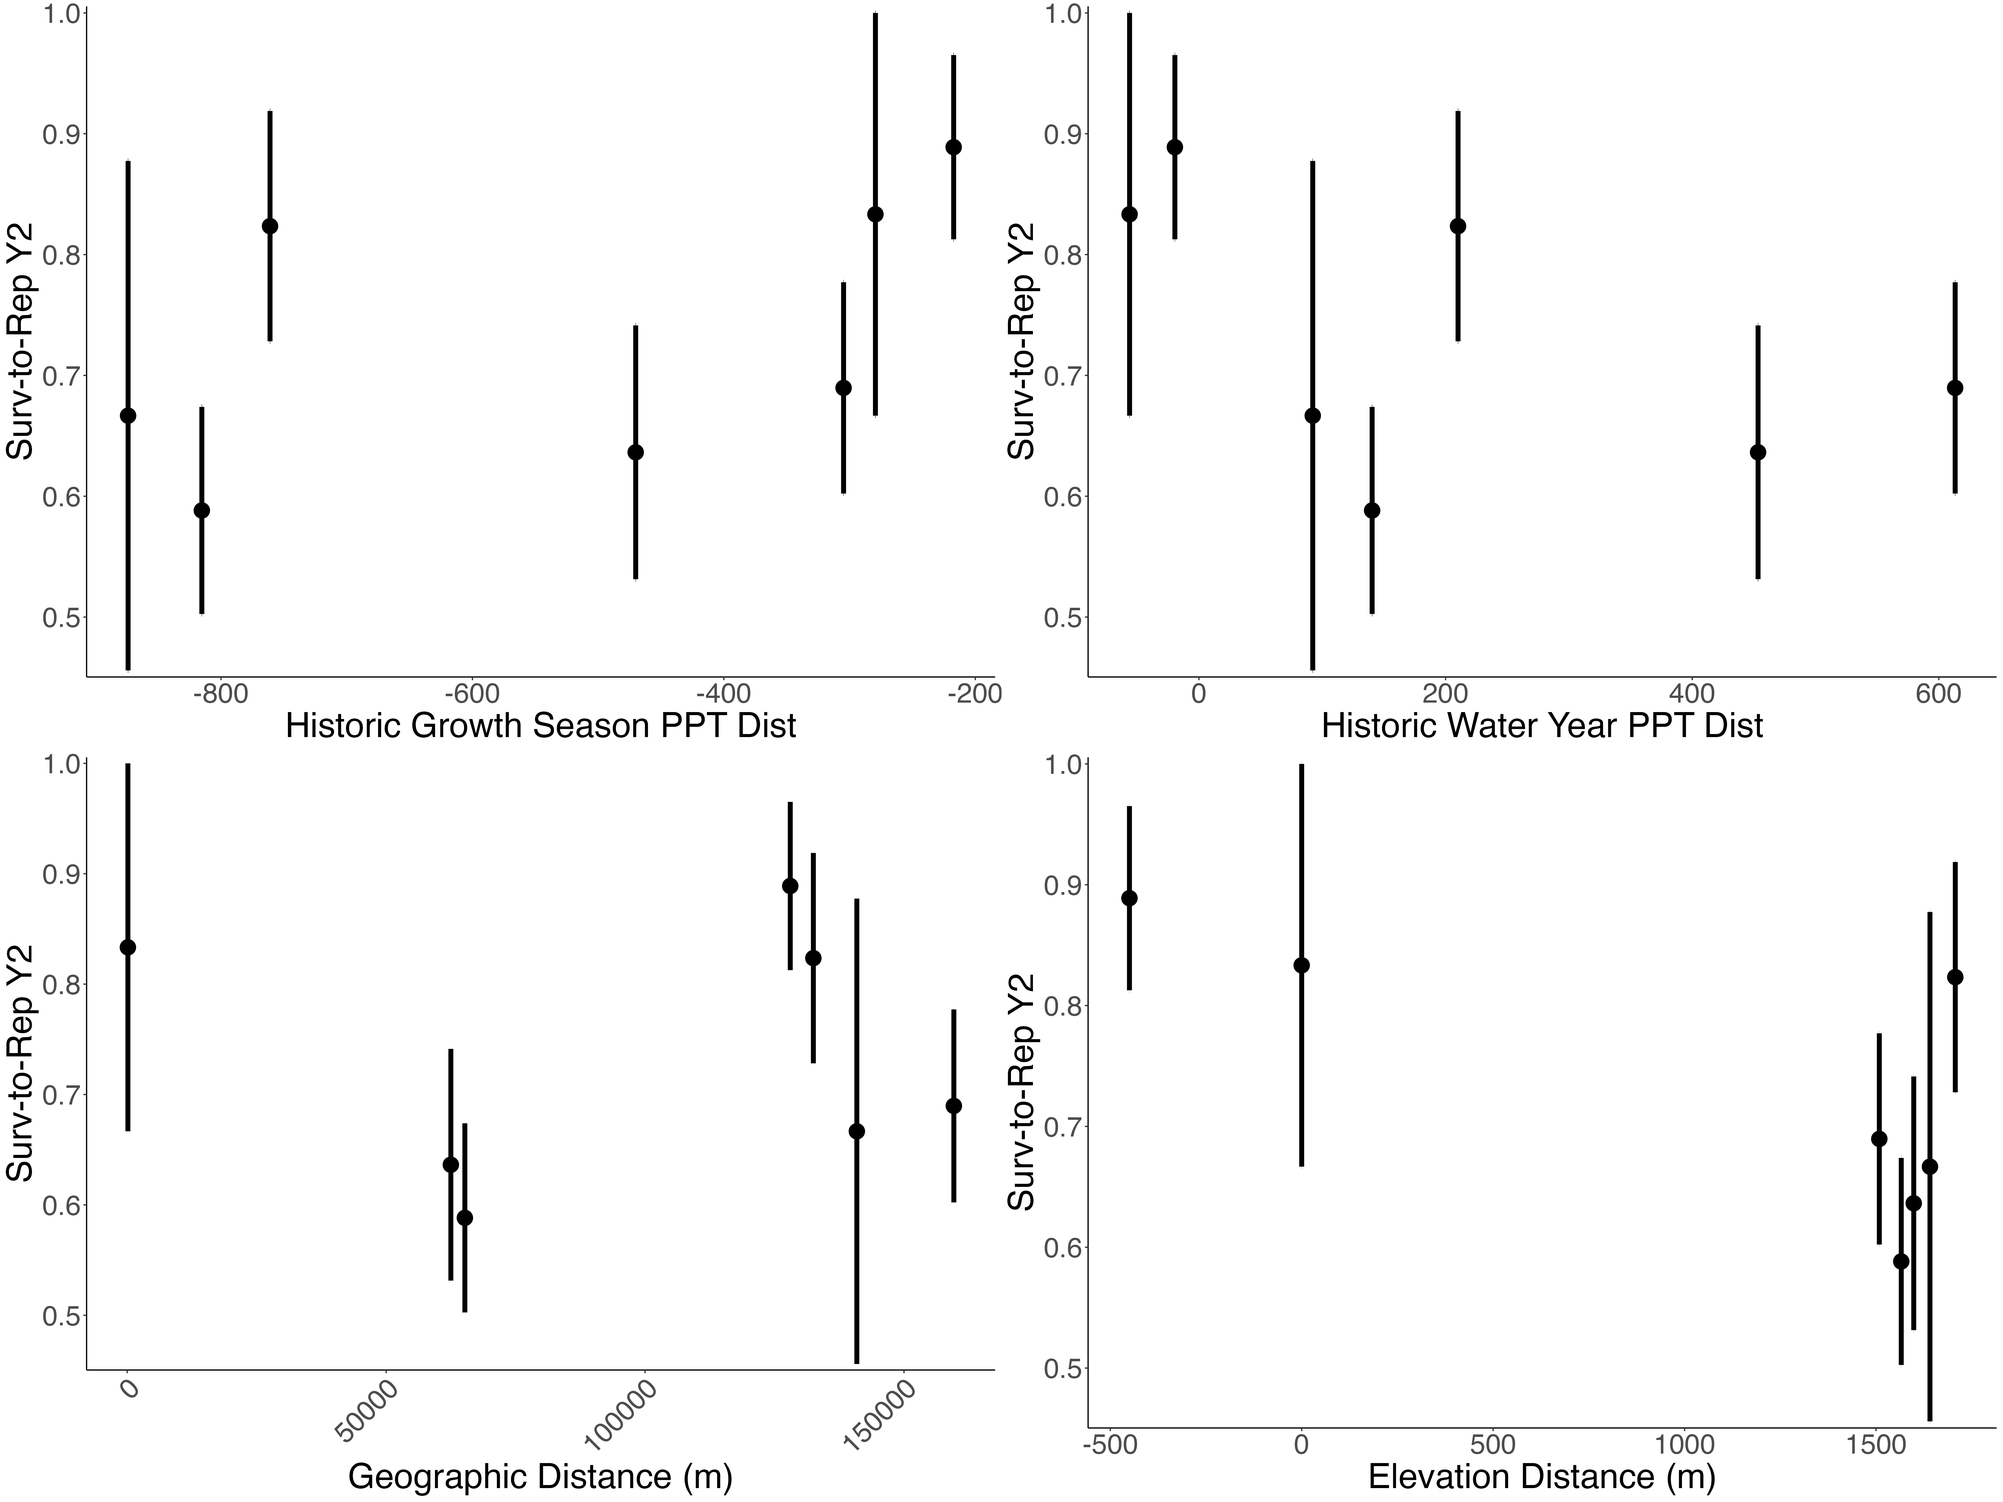
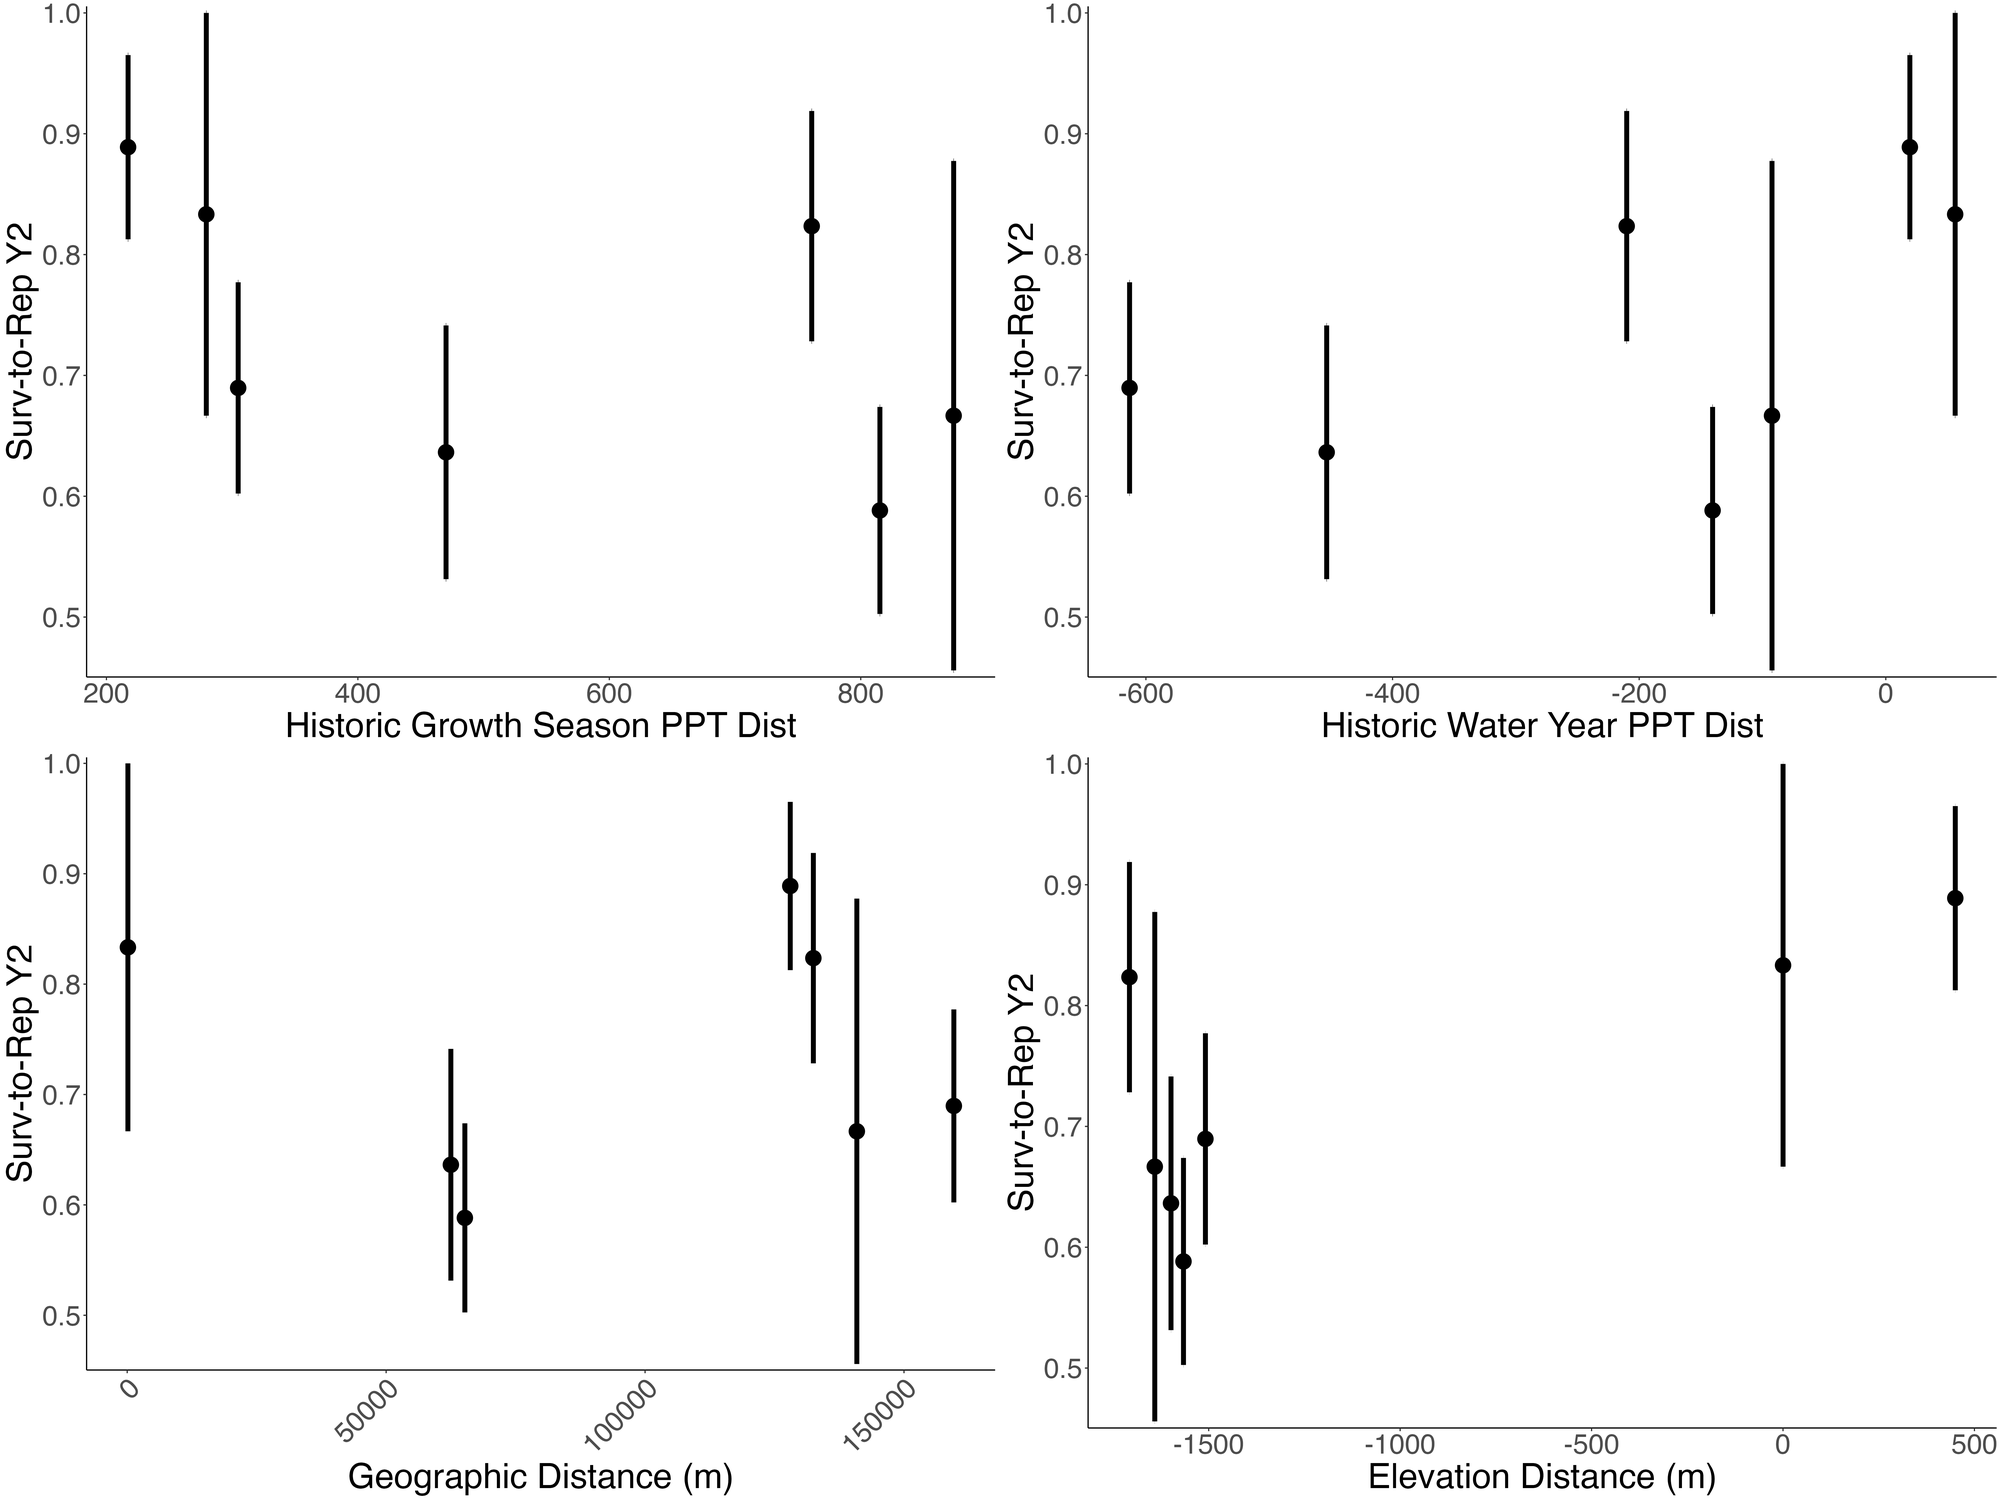
Changed elev, temp, and ppt distances to Home-Garden.

diff --git a/scripts/WL2_Surv_to_Rep_Y2.html b/scripts/WL2_Surv_to_Rep_Y2.html
@@ -11,7 +11,7 @@
 
 <meta name="author" content="Brandie QC" />
 
-<meta name="date" content="2025-03-18" />
+<meta name="date" content="2025-03-21" />
 
 <title>WL2_Surv_to_Rep_Y2</title>
 
@@ -352,7 +352,7 @@ display: none;
 
 <h1 class="title toc-ignore">WL2_Surv_to_Rep_Y2</h1>
 <h4 class="author">Brandie QC</h4>
-<h4 class="date">2025-03-18</h4>
+<h4 class="date">2025-03-21</h4>
 
 </div>
 
@@ -449,7 +449,7 @@ library(tidymodels)</code></pre>
 ## ✖ infer::t_test()       masks rstatix::t_test()
 ## ✖ Matrix::unpack()      masks tidyr::unpack()
 ## ✖ recipes::update()     masks Matrix::update(), stats::update()
-## • Search for functions across packages at https://www.tidymodels.org/find/</code></pre>
+## • Use suppressPackageStartupMessages() to eliminate package startup messages</code></pre>
 <pre class="r"><code>library(furrr) #Apply Mapping Functions in Parallel using Futures</code></pre>
 <pre><code>## Loading required package: future</code></pre>
 <pre class="r"><code>tidymodels_prefer()
@@ -568,7 +568,7 @@ wl2_gowers_2024 &lt;- read_csv(&quot;../output/Climate/Gowers_WL2_2024.csv&quot;
   pivot_wider(names_from = TimePd, values_from = c(GrwSsn_GD, Wtr_Year_GD)) %&gt;% 
   mutate(WL2_Lat=38.82599, WL2_Long=-120.2509, WL2_Elev=2020) %&gt;% 
   mutate(Geographic_Dist=distHaversine(cbind(WL2_Long, WL2_Lat), cbind(Long, Lat)),
-         Elev_Dist=WL2_Elev-elev_m) %&gt;% # Calculate the distance using the haversine formula
+         Elev_Dist=elev_m-WL2_Elev) %&gt;% # Calculate the distance using the haversine formula
   rename(pop=parent.pop)</code></pre>
 <pre><code>## Rows: 46 Columns: 8
 ## ── Column specification ────────────────────────────────────────────────────────
@@ -581,7 +581,7 @@ wl2_gowers_2024 &lt;- read_csv(&quot;../output/Climate/Gowers_WL2_2024.csv&quot;
 </div>
 <div id="climate-subtraction-distance" class="section level2">
 <h2>Climate Subtraction Distance</h2>
-<pre class="r"><code>wl2_wtr_year_sub_recent_2024 &lt;- read_csv(&quot;../output/Climate/full_year_Subtraction_Dist_from_WL2_2024_Recent.csv&quot;) %&gt;% 
+<pre class="r"><code>wl2_wtr_year_sub_recent_2024 &lt;- read_csv(&quot;../output/Climate/full_year_Subtraction_Dist_from_Home_WL2_2024_Recent.csv&quot;) %&gt;% 
   select(parent.pop, Wtr_Year_TempDist_Recent=ann_tmean_dist, Wtr_Year_PPTDist_Recent=ann_ppt_dist)</code></pre>
 <pre><code>## Rows: 23 Columns: 18
 ## ── Column specification ────────────────────────────────────────────────────────
@@ -591,7 +591,7 @@ wl2_gowers_2024 &lt;- read_csv(&quot;../output/Climate/Gowers_WL2_2024.csv&quot;
 ## 
 ## ℹ Use `spec()` to retrieve the full column specification for this data.
 ## ℹ Specify the column types or set `show_col_types = FALSE` to quiet this message.</code></pre>
-<pre class="r"><code>wl2_wtr_year_sub_historic_2024 &lt;- read_csv(&quot;../output/Climate/full_year_Subtraction_Dist_from_WL2_2024_Historical.csv&quot;) %&gt;% 
+<pre class="r"><code>wl2_wtr_year_sub_historic_2024 &lt;- read_csv(&quot;../output/Climate/full_year_Subtraction_Dist_from_Home_WL2_2024_Historical.csv&quot;) %&gt;% 
   select(parent.pop, Wtr_Year_TempDist_Historic=ann_tmean_dist, Wtr_Year_PPTDist_Historic=ann_ppt_dist)</code></pre>
 <pre><code>## Rows: 23 Columns: 18
 ## ── Column specification ────────────────────────────────────────────────────────
@@ -601,7 +601,7 @@ wl2_gowers_2024 &lt;- read_csv(&quot;../output/Climate/Gowers_WL2_2024.csv&quot;
 ## 
 ## ℹ Use `spec()` to retrieve the full column specification for this data.
 ## ℹ Specify the column types or set `show_col_types = FALSE` to quiet this message.</code></pre>
-<pre class="r"><code>wl2_grwssn_sub_recent_2024 &lt;- read_csv(&quot;../output/Climate/grwssn_Subtraction_Dist_from_WL2_2024_Recent.csv&quot;) %&gt;% 
+<pre class="r"><code>wl2_grwssn_sub_recent_2024 &lt;- read_csv(&quot;../output/Climate/grwssn_Subtraction_Dist_from_Home_WL2_2024_Recent.csv&quot;) %&gt;% 
   select(parent.pop, GrwSsn_TempDist_Recent=ann_tmean_dist, GrwSsn_PPTDist_Recent=ann_ppt_dist)</code></pre>
 <pre><code>## Rows: 23 Columns: 18
 ## ── Column specification ────────────────────────────────────────────────────────
@@ -611,7 +611,7 @@ wl2_gowers_2024 &lt;- read_csv(&quot;../output/Climate/Gowers_WL2_2024.csv&quot;
 ## 
 ## ℹ Use `spec()` to retrieve the full column specification for this data.
 ## ℹ Specify the column types or set `show_col_types = FALSE` to quiet this message.</code></pre>
-<pre class="r"><code>wl2_grwssn_sub_historic_2024 &lt;- read_csv(&quot;../output/Climate/grwssn_Subtraction_Dist_from_WL2_2024_Historical.csv&quot;) %&gt;% 
+<pre class="r"><code>wl2_grwssn_sub_historic_2024 &lt;- read_csv(&quot;../output/Climate/grwssn_Subtraction_Dist_from_Home_WL2_2024_Historical.csv&quot;) %&gt;% 
   select(parent.pop, GrwSsn_TempDist_Historic=ann_tmean_dist, GrwSsn_PPTDist_Historic=ann_ppt_dist)</code></pre>
 <pre><code>## Rows: 23 Columns: 18
 ## ── Column specification ────────────────────────────────────────────────────────
@@ -841,7 +841,7 @@ GSCD_recent &lt;- wl2_surv_to_rep_y2 %&gt;%
 <pre><code>## `summarise()` has grouped output by &#39;pop&#39;, &#39;elev_m&#39;. You can override using the
 ## `.groups` argument.</code></pre>
 <pre class="r"><code>wl2_surv_to_rep_y2_FIG &lt;- ggarrange(GSCD_recent, WYCD_recent, GD, ED, ncol=2, nrow=2) 
-#ggsave(&quot;../output/WL2_Traits/WL2_SurvtoRep_y2_SCATTERS_Recent.png&quot;, width = 24, height = 18, units = &quot;in&quot;)</code></pre>
+ggsave(&quot;../output/WL2_Traits/WL2_SurvtoRep_y2_SCATTERS_Recent.png&quot;, width = 24, height = 18, units = &quot;in&quot;)</code></pre>
 <pre class="r"><code>#scatter plots
 GSCD_historic &lt;- wl2_surv_to_rep_y2 %&gt;% 
   filter(pop != &quot;LV1&quot;, pop != &quot;SQ1&quot;, pop != &quot;WR&quot;) %&gt;% 
@@ -870,7 +870,7 @@ GSCD_historic &lt;- wl2_surv_to_rep_y2 %&gt;%
 <pre><code>## `summarise()` has grouped output by &#39;pop&#39;, &#39;elev_m&#39;, &#39;GrwSsn_GD_Historical&#39;.
 ## You can override using the `.groups` argument.</code></pre>
 <pre class="r"><code>wl2_surv_to_rep_y2_FIG &lt;- ggarrange(GSCD_historic, WYCD_historic, GD, ED, ncol=2, nrow=2) 
-#ggsave(&quot;../output/WL2_Traits/WL2_SurvtoRep_y2_SCATTERS_Historic.png&quot;, width = 24, height = 18, units = &quot;in&quot;)</code></pre>
+ggsave(&quot;../output/WL2_Traits/WL2_SurvtoRep_y2_SCATTERS_Historic.png&quot;, width = 24, height = 18, units = &quot;in&quot;)</code></pre>
 <div id="directional-distance" class="section level4">
 <h4>Directional Distance</h4>
 <pre class="r"><code>#scatter plots - recent
@@ -1267,6 +1267,7 @@ name=names(wflow)
   mutate(fit = map(wflow, fit, data = wl2_surv_to_rep_y2_scaled_sub))</code></pre>
 <pre><code>## boundary (singular) fit: see help(&#39;isSingular&#39;)
 ## boundary (singular) fit: see help(&#39;isSingular&#39;)
+## boundary (singular) fit: see help(&#39;isSingular&#39;)
 ## boundary (singular) fit: see help(&#39;isSingular&#39;)</code></pre>
 <pre class="r"><code>surv_GD_fits_wl2_sub %&gt;% mutate(glance=map(fit, glance)) %&gt;% unnest(glance) %&gt;% arrange(AIC) %&gt;% select(-wflow:-sigma)</code></pre>
 <pre><code>## # A tibble: 5 × 6
@@ -1286,17 +1287,17 @@ surv_GD_fits_wl2_sub %&gt;% mutate(tidy=map(fit, tidy)) %&gt;% unnest(tidy) %&gt
 <pre><code>## # A tibble: 12 × 6
 ##    name          term                       estimate std.error statistic p.value
 ##    &lt;chr&gt;         &lt;chr&gt;                         &lt;dbl&gt;     &lt;dbl&gt;     &lt;dbl&gt;   &lt;dbl&gt;
-##  1 GS_Recent     GrwSsn_TempDist_Recent       0.721      0.432    1.67    0.0950
-##  2 GS_Recent     GrwSsn_PPTDist_Recent       -0.202      0.410   -0.492   0.623 
+##  1 GS_Recent     GrwSsn_TempDist_Recent      -0.721      0.432   -1.67    0.0950
+##  2 GS_Recent     GrwSsn_PPTDist_Recent        0.202      0.410    0.492   0.623 
 ##  3 GS_Recent     Geographic_Dist              0.169      0.235    0.719   0.472 
-##  4 GS_Historical GrwSsn_TempDist_Historic     0.721      0.432    1.67    0.0950
-##  5 GS_Historical GrwSsn_PPTDist_Historic     -0.202      0.410   -0.492   0.623 
+##  4 GS_Historical GrwSsn_TempDist_Historic    -0.721      0.432   -1.67    0.0950
+##  5 GS_Historical GrwSsn_PPTDist_Historic      0.202      0.410    0.492   0.623 
 ##  6 GS_Historical Geographic_Dist              0.169      0.235    0.719   0.472 
-##  7 WY_Recent     Wtr_Year_TempDist_Recent     0.665      0.337    1.97    0.0486
-##  8 WY_Recent     Wtr_Year_PPTDist_Recent     -0.0413     0.312   -0.132   0.895 
+##  7 WY_Recent     Wtr_Year_TempDist_Recent    -0.665      0.337   -1.97    0.0486
+##  8 WY_Recent     Wtr_Year_PPTDist_Recent      0.0413     0.312    0.132   0.895 
 ##  9 WY_Recent     Geographic_Dist              0.316      0.262    1.21    0.228 
-## 10 WY_Historical Wtr_Year_TempDist_Historic   0.667      0.345    1.93    0.0534
-## 11 WY_Historical Wtr_Year_PPTDist_Historic   -0.0192     0.315   -0.0609  0.951 
+## 10 WY_Historical Wtr_Year_TempDist_Historic  -0.667      0.345   -1.93    0.0534
+## 11 WY_Historical Wtr_Year_PPTDist_Historic    0.0191     0.315    0.0609  0.951 
 ## 12 WY_Historical Geographic_Dist              0.284      0.255    1.11    0.266</code></pre>
 <pre class="r"><code>#  arrange(p.value)</code></pre>
 </div>

diff --git a/scripts/WL2_Surv_to_Rep_Y2.md b/scripts/WL2_Surv_to_Rep_Y2.md
@@ -1,7 +1,7 @@
 ---
 title: "WL2_Surv_to_Rep_Y2"
 author: "Brandie QC"
-date: "2025-03-18"
+date: "2025-03-21"
 output: 
   html_document: 
     keep_md: true
@@ -147,7 +147,7 @@ library(tidymodels)
 ## ✖ infer::t_test()       masks rstatix::t_test()
 ## ✖ Matrix::unpack()      masks tidyr::unpack()
 ## ✖ recipes::update()     masks Matrix::update(), stats::update()
-## • Search for functions across packages at https://www.tidymodels.org/find/
+## • Use suppressPackageStartupMessages() to eliminate package startup messages
 ```
 
 ``` r
@@ -329,7 +329,7 @@ wl2_gowers_2024 <- read_csv("../output/Climate/Gowers_WL2_2024.csv") %>%
   pivot_wider(names_from = TimePd, values_from = c(GrwSsn_GD, Wtr_Year_GD)) %>% 
   mutate(WL2_Lat=38.82599, WL2_Long=-120.2509, WL2_Elev=2020) %>% 
   mutate(Geographic_Dist=distHaversine(cbind(WL2_Long, WL2_Lat), cbind(Long, Lat)),
-         Elev_Dist=WL2_Elev-elev_m) %>% # Calculate the distance using the haversine formula
+         Elev_Dist=elev_m-WL2_Elev) %>% # Calculate the distance using the haversine formula
   rename(pop=parent.pop)
 ```
 
@@ -348,7 +348,7 @@ wl2_gowers_2024 <- read_csv("../output/Climate/Gowers_WL2_2024.csv") %>%
 
 
 ``` r
-wl2_wtr_year_sub_recent_2024 <- read_csv("../output/Climate/full_year_Subtraction_Dist_from_WL2_2024_Recent.csv") %>% 
+wl2_wtr_year_sub_recent_2024 <- read_csv("../output/Climate/full_year_Subtraction_Dist_from_Home_WL2_2024_Recent.csv") %>% 
   select(parent.pop, Wtr_Year_TempDist_Recent=ann_tmean_dist, Wtr_Year_PPTDist_Recent=ann_ppt_dist)
 ```
 
@@ -364,7 +364,7 @@ wl2_wtr_year_sub_recent_2024 <- read_csv("../output/Climate/full_year_Subtractio
 ```
 
 ``` r
-wl2_wtr_year_sub_historic_2024 <- read_csv("../output/Climate/full_year_Subtraction_Dist_from_WL2_2024_Historical.csv") %>% 
+wl2_wtr_year_sub_historic_2024 <- read_csv("../output/Climate/full_year_Subtraction_Dist_from_Home_WL2_2024_Historical.csv") %>% 
   select(parent.pop, Wtr_Year_TempDist_Historic=ann_tmean_dist, Wtr_Year_PPTDist_Historic=ann_ppt_dist)
 ```
 
@@ -380,7 +380,7 @@ wl2_wtr_year_sub_historic_2024 <- read_csv("../output/Climate/full_year_Subtract
 ```
 
 ``` r
-wl2_grwssn_sub_recent_2024 <- read_csv("../output/Climate/grwssn_Subtraction_Dist_from_WL2_2024_Recent.csv") %>% 
+wl2_grwssn_sub_recent_2024 <- read_csv("../output/Climate/grwssn_Subtraction_Dist_from_Home_WL2_2024_Recent.csv") %>% 
   select(parent.pop, GrwSsn_TempDist_Recent=ann_tmean_dist, GrwSsn_PPTDist_Recent=ann_ppt_dist)
 ```
 
@@ -396,7 +396,7 @@ wl2_grwssn_sub_recent_2024 <- read_csv("../output/Climate/grwssn_Subtraction_Dis
 ```
 
 ``` r
-wl2_grwssn_sub_historic_2024 <- read_csv("../output/Climate/grwssn_Subtraction_Dist_from_WL2_2024_Historical.csv") %>% 
+wl2_grwssn_sub_historic_2024 <- read_csv("../output/Climate/grwssn_Subtraction_Dist_from_Home_WL2_2024_Historical.csv") %>% 
   select(parent.pop, GrwSsn_TempDist_Historic=ann_tmean_dist, GrwSsn_PPTDist_Historic=ann_ppt_dist)
 ```
 
@@ -754,7 +754,7 @@ ED <- wl2_surv_to_rep_y2 %>%
 
 ``` r
 wl2_surv_to_rep_y2_FIG <- ggarrange(GSCD_recent, WYCD_recent, GD, ED, ncol=2, nrow=2) 
-#ggsave("../output/WL2_Traits/WL2_SurvtoRep_y2_SCATTERS_Recent.png", width = 24, height = 18, units = "in")
+ggsave("../output/WL2_Traits/WL2_SurvtoRep_y2_SCATTERS_Recent.png", width = 24, height = 18, units = "in")
 ```
 
 
@@ -799,7 +799,7 @@ WYCD_historic <- wl2_surv_to_rep_y2 %>%
 
 ``` r
 wl2_surv_to_rep_y2_FIG <- ggarrange(GSCD_historic, WYCD_historic, GD, ED, ncol=2, nrow=2) 
-#ggsave("../output/WL2_Traits/WL2_SurvtoRep_y2_SCATTERS_Historic.png", width = 24, height = 18, units = "in")
+ggsave("../output/WL2_Traits/WL2_SurvtoRep_y2_SCATTERS_Historic.png", width = 24, height = 18, units = "in")
 ```
 
 #### Directional Distance
@@ -1371,6 +1371,7 @@ name=names(wflow)
 ## boundary (singular) fit: see help('isSingular')
 ## boundary (singular) fit: see help('isSingular')
 ## boundary (singular) fit: see help('isSingular')
+## boundary (singular) fit: see help('isSingular')
 ```
 
 ``` r
@@ -1401,17 +1402,17 @@ surv_GD_fits_wl2_sub %>% mutate(tidy=map(fit, tidy)) %>% unnest(tidy) %>%
 ## # A tibble: 12 × 6
 ##    name          term                       estimate std.error statistic p.value
 ##    <chr>         <chr>                         <dbl>     <dbl>     <dbl>   <dbl>
-##  1 GS_Recent     GrwSsn_TempDist_Recent       0.721      0.432    1.67    0.0950
-##  2 GS_Recent     GrwSsn_PPTDist_Recent       -0.202      0.410   -0.492   0.623 
+##  1 GS_Recent     GrwSsn_TempDist_Recent      -0.721      0.432   -1.67    0.0950
+##  2 GS_Recent     GrwSsn_PPTDist_Recent        0.202      0.410    0.492   0.623 
 ##  3 GS_Recent     Geographic_Dist              0.169      0.235    0.719   0.472 
-##  4 GS_Historical GrwSsn_TempDist_Historic     0.721      0.432    1.67    0.0950
-##  5 GS_Historical GrwSsn_PPTDist_Historic     -0.202      0.410   -0.492   0.623 
+##  4 GS_Historical GrwSsn_TempDist_Historic    -0.721      0.432   -1.67    0.0950
+##  5 GS_Historical GrwSsn_PPTDist_Historic      0.202      0.410    0.492   0.623 
 ##  6 GS_Historical Geographic_Dist              0.169      0.235    0.719   0.472 
-##  7 WY_Recent     Wtr_Year_TempDist_Recent     0.665      0.337    1.97    0.0486
-##  8 WY_Recent     Wtr_Year_PPTDist_Recent     -0.0413     0.312   -0.132   0.895 
+##  7 WY_Recent     Wtr_Year_TempDist_Recent    -0.665      0.337   -1.97    0.0486
+##  8 WY_Recent     Wtr_Year_PPTDist_Recent      0.0413     0.312    0.132   0.895 
 ##  9 WY_Recent     Geographic_Dist              0.316      0.262    1.21    0.228 
-## 10 WY_Historical Wtr_Year_TempDist_Historic   0.667      0.345    1.93    0.0534
-## 11 WY_Historical Wtr_Year_PPTDist_Historic   -0.0192     0.315   -0.0609  0.951 
+## 10 WY_Historical Wtr_Year_TempDist_Historic  -0.667      0.345   -1.93    0.0534
+## 11 WY_Historical Wtr_Year_PPTDist_Historic    0.0191     0.315    0.0609  0.951 
 ## 12 WY_Historical Geographic_Dist              0.284      0.255    1.11    0.266
 ```
 
